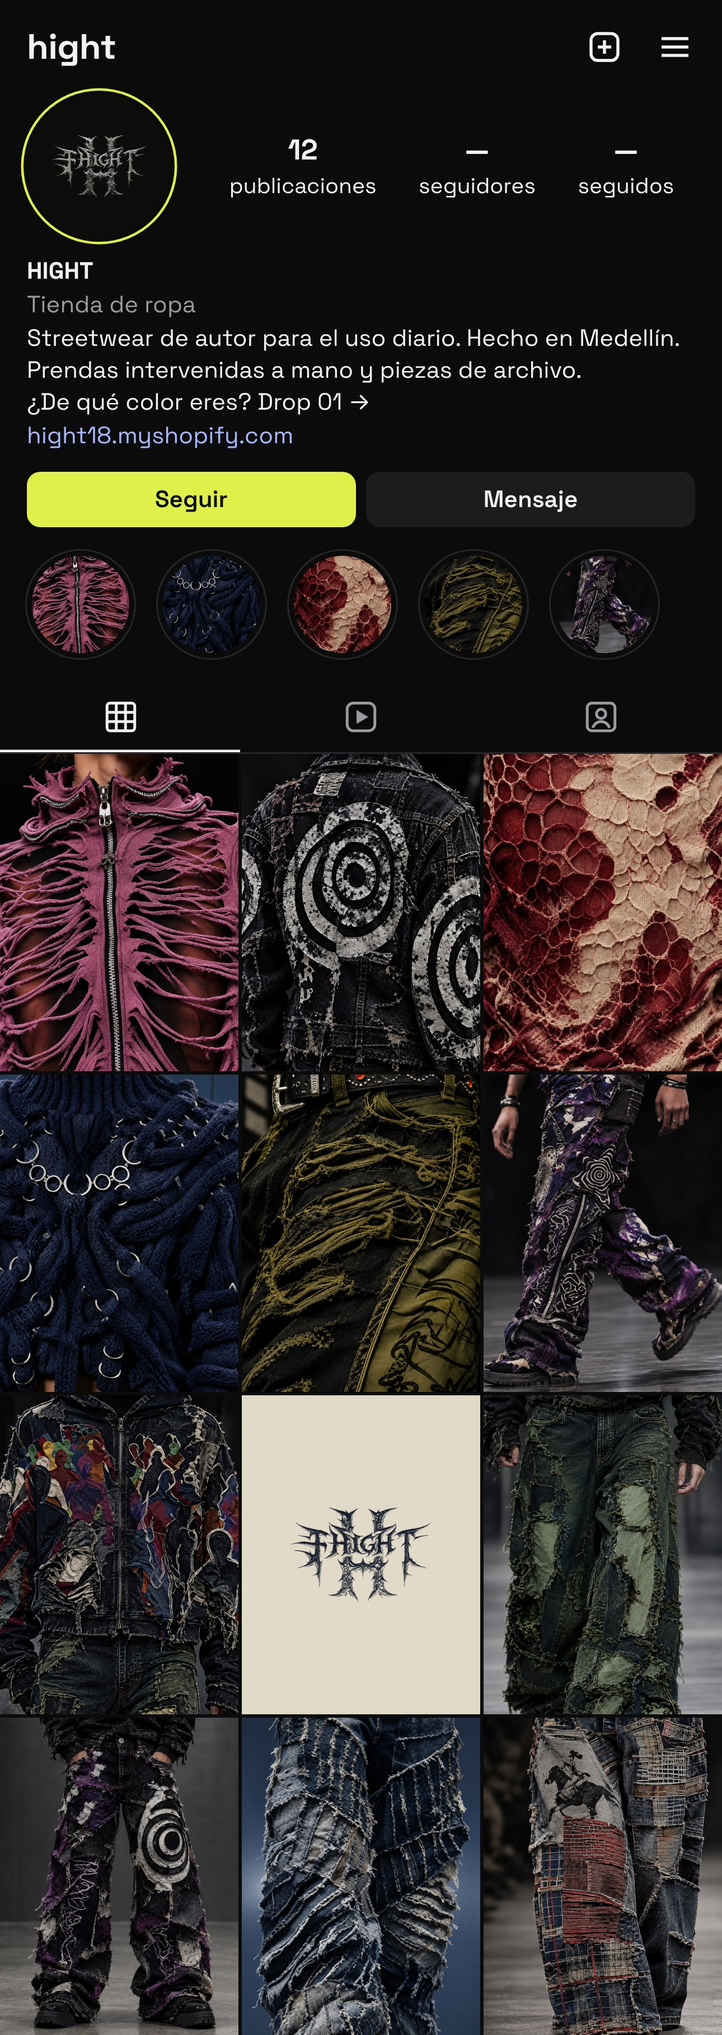
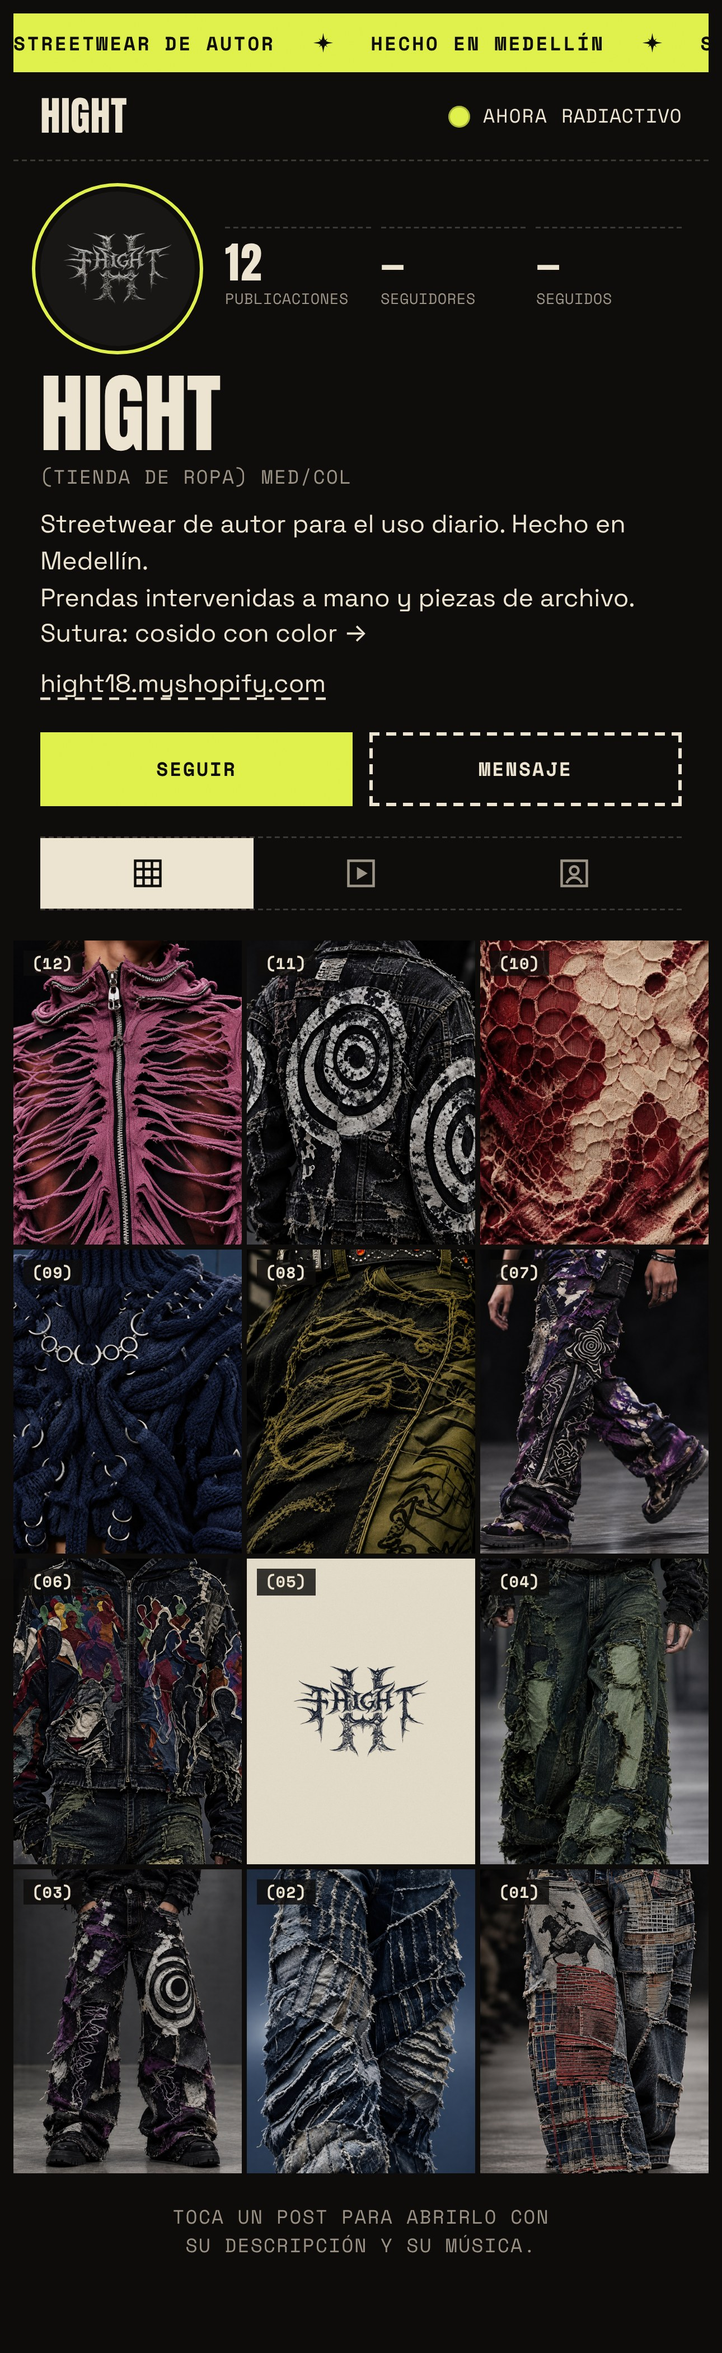
Primeros planos: la colección se llama Sutura
La bio, los hashtags (#Sutura), el post del logo y la franja dicen Sutura y
«Cosido con color» en vez de Drop 01 y «¿De qué color eres?».

Claude-Session: https://claude.ai/code/session_01G48NiERhNFFkxz4Zg6J7Mb

diff --git a/bocetos/primeros-planos/muestra.html b/bocetos/primeros-planos/muestra.html
@@ -1,4 +1,4 @@
-<title>Primeros planos del Drop 01</title>
+<title>Primeros planos de Sutura</title>
 <meta name="claude:viewport-fit-sides" content="cover">
 <link rel="preconnect" href="https://fonts.googleapis.com">
 <link rel="preconnect" href="https://fonts.gstatic.com" crossorigin>
@@ -138,8 +138,8 @@ body::after {
 
 <div class="franja" aria-hidden="true">
   <div class="franja-pista">
-    <ul><li>Streetwear de autor</li><li><svg><use href="#estrella"/></svg></li><li>Hecho en Medellín</li><li><svg><use href="#estrella"/></svg></li><li>Drop 01</li><li><svg><use href="#estrella"/></svg></li><li data-franja-turno>Ahora: Radiactivo</li><li><svg><use href="#estrella"/></svg></li><li>¿De qué color eres?</li><li><svg><use href="#estrella"/></svg></li></ul>
-    <ul><li>Streetwear de autor</li><li><svg><use href="#estrella"/></svg></li><li>Hecho en Medellín</li><li><svg><use href="#estrella"/></svg></li><li>Drop 01</li><li><svg><use href="#estrella"/></svg></li><li data-franja-turno>Ahora: Radiactivo</li><li><svg><use href="#estrella"/></svg></li><li>¿De qué color eres?</li><li><svg><use href="#estrella"/></svg></li></ul>
+    <ul><li>Streetwear de autor</li><li><svg><use href="#estrella"/></svg></li><li>Hecho en Medellín</li><li><svg><use href="#estrella"/></svg></li><li>Sutura</li><li><svg><use href="#estrella"/></svg></li><li data-franja-turno>Ahora: Radiactivo</li><li><svg><use href="#estrella"/></svg></li><li>Cosido con color</li><li><svg><use href="#estrella"/></svg></li></ul>
+    <ul><li>Streetwear de autor</li><li><svg><use href="#estrella"/></svg></li><li>Hecho en Medellín</li><li><svg><use href="#estrella"/></svg></li><li>Sutura</li><li><svg><use href="#estrella"/></svg></li><li data-franja-turno>Ahora: Radiactivo</li><li><svg><use href="#estrella"/></svg></li><li>Cosido con color</li><li><svg><use href="#estrella"/></svg></li></ul>
   </div>
 </div>
 
@@ -156,7 +156,7 @@ body::after {
   <div class="bio">
     <h1 class="nombre">Hight</h1>
     <span class="t-label" style="color:var(--gris)">(Tienda de ropa) MED/COL</span>
-    <p>Streetwear de autor para el uso diario. Hecho en Medellín.<br>Prendas intervenidas a mano y piezas de archivo.<br>¿De qué color eres? Drop 01 →</p>
+    <p>Streetwear de autor para el uso diario. Hecho en Medellín.<br>Prendas intervenidas a mano y piezas de archivo.<br>Sutura: cosido con color →</p>
     <a href="https://hight18.myshopify.com" target="_blank" rel="noopener">hight18.myshopify.com</a>
   </div>
   <div class="botones" aria-hidden="true"><span class="btn btn-acento">Seguir</span><span class="btn btn-punteado">Mensaje</span></div>
@@ -236,7 +236,7 @@ body::after {
 })();
 </script>
 <script>
-const POSTS = [{"n": 1, "src": "fotos/jean-patchwork-cuadros.jpg", "alt": "Jean Patchwork Cuadros de cerca: parches de franela, ladrillo y denim con el borde crudo", "pista": "rock-psicodelico", "pistaNombre": "Rock psicodélico", "desde": 4.286, "dura": 12.857, "lineas": ["Jean Patchwork Cuadros: franela a cuadros, ladrillo y denim lavado, cosidos con el borde crudo.", "Cada parche viene de otra prenda; juntos cuentan otra historia.", "$540.000, en el enlace de la bio.", "Fotos creadas con IA a partir de las prendas reales."], "hashtags": "#HIGHT #Drop01 #DenimIntervenido", "etiquetas": "Jean Patchwork Cuadros", "fecha": "Primeros planos · 01 de 12"}, {"n": 2, "src": "fotos/jean-wide-fleco-indigo.jpg", "alt": "Jean Wide Fleco Índigo de cerca: franjas de índigo deshilachadas, cosidas en diagonal", "pista": "neo-psicodelia", "pistaNombre": "Neo-psicodelia", "desde": 0.0, "dura": 12.245, "lineas": ["Jean Wide Fleco Índigo: franjas de índigo cosidas en diagonal, con el borde deshilachado a mano.", "Se mueve antes que tú.", "$620.000. Guarda este post."], "hashtags": "#HIGHT #Drop01 #DenimIntervenido", "etiquetas": "Jean Wide Fleco Índigo", "fecha": "Primeros planos · 02 de 12"}, {"n": 3, "src": "fotos/jean-patchwork-estrellas-violeta-frente.jpg", "alt": "Jean Patchwork Estrellas Violeta de frente: parches violeta y negros con una diana pintada en blanco", "pista": "pop-psicodelico", "pistaNombre": "Pop psicodélico", "desde": 4.615, "dura": 11.538, "lineas": ["Jean Patchwork Estrellas Violeta: parches violeta y negros, costura cruda y una diana pintada a mano.", "Ningún parche está donde debería. Ese es el punto.", "$650.000, en el enlace de la bio."], "hashtags": "#HIGHT #Drop01", "etiquetas": "Jean Patchwork Estrellas Violeta", "fecha": "Primeros planos · 03 de 12"}, {"n": 4, "src": "fotos/jean-flare-destroyed-verde.jpg", "alt": "Jean Flare Destroyed Verde de cerca: rotos grandes rellenos de tela verde clara", "pista": "rock-psicodelico", "pistaNombre": "Rock psicodélico", "desde": 12.857, "dura": 12.857, "lineas": ["Jean Flare Destroyed Verde: rotos grandes rellenos de tela verde clara, cosidos en zigzag.", "Lo gastado también se elige.", "$480.000. Etiqueta a quien lo llevaría."], "hashtags": "#HIGHT #Drop01 #DenimIntervenido", "etiquetas": "Jean Flare Destroyed Verde", "fecha": "Primeros planos · 04 de 12"}, {"n": 5, "src": "fotos/logo-hueso.jpg", "alt": "El logo de HIGHT en tinta sobre hueso", "pista": "neo-psicodelia", "pistaNombre": "Neo-psicodelia", "desde": 9.796, "dura": 12.245, "lineas": ["HIGHT. Drop 01.", "Streetwear de autor, hecho en Medellín.", "Activa las notificaciones del perfil."], "hashtags": "#HIGHT #Drop01 #Medellín", "etiquetas": "ninguno", "fecha": "Primeros planos · 05 de 12"}, {"n": 6, "src": "fotos/buzo-multitud-termica.jpg", "alt": "Buzo Multitud Térmica de cerca: siluetas de colores sobre denim negro deshilachado", "pista": "pop-psicodelico", "pistaNombre": "Pop psicodélico", "desde": 13.846, "dura": 11.538, "lineas": ["Buzo Multitud Térmica: una multitud en colores de cámara térmica sobre denim negro lavado.", "Entre la multitud, nadie se parece.", "$390.000, en el enlace de la bio."], "hashtags": "#HIGHT #Drop01", "etiquetas": "Buzo Multitud Térmica", "fecha": "Primeros planos · 06 de 12"}, {"n": 7, "src": "fotos/jean-patchwork-estrellas-violeta-estrella.jpg", "alt": "Jean Patchwork Estrellas Violeta caminando: la estrella en espiral sobre violeta salpicado", "pista": "rock-psicodelico", "pistaNombre": "Rock psicodélico", "desde": 21.429, "dura": 12.857, "lineas": ["Jean Patchwork Estrellas Violeta: la estrella en espiral, de cerca, sobre violeta salpicado de cloro.", "Camina y el estampado camina contigo.", "¿Violeta o negro? Te leemos."], "hashtags": "#HIGHT #Drop01 #DenimIntervenido", "etiquetas": "Jean Patchwork Estrellas Violeta", "fecha": "Primeros planos · 07 de 12"}, {"n": 8, "src": "fotos/jean-flare-dragon-acido.jpg", "alt": "Jean Flare Dragón Ácido de cerca: hilos oliva sobre negro y el dragón en tinta", "pista": "pop-psicodelico", "pistaNombre": "Pop psicodélico", "desde": 9.231, "dura": 11.538, "lineas": ["Jean Flare Dragón Ácido: hilos oliva sueltos sobre negro y un dragón en tinta en la pierna.", "Lo que se deshace también tiene forma.", "$490.000, en el enlace de la bio."], "hashtags": "#HIGHT #Drop01", "etiquetas": "Jean Flare Dragón Ácido", "fecha": "Primeros planos · 08 de 12"}, {"n": 9, "src": "fotos/tejido-anillos-indigo.jpg", "alt": "Tejido Anillos Índigo de cerca: tiras tejidas en azul noche unidas con argollas metálicas", "pista": "neo-psicodelia", "pistaNombre": "Neo-psicodelia", "desde": 14.694, "dura": 12.245, "lineas": ["Tejido Anillos Índigo: tiras tubulares tejidas en azul noche, unidas con argollas metálicas.", "Un suéter que no se parece a otro.", "$460.000. Mira las argollas en la ficha de la tienda."], "hashtags": "#HIGHT #Drop01 #HechoAMano", "etiquetas": "Tejido Anillos Índigo", "fecha": "Primeros planos · 09 de 12"}, {"n": 10, "src": "fotos/camiseta-celula-carmin.jpg", "alt": "Camiseta Célula Carmín de cerca: estampado de células en carmín y hueso", "pista": "neo-psicodelia", "pistaNombre": "Neo-psicodelia", "desde": 19.592, "dura": 12.245, "lineas": ["Camiseta Célula Carmín: estampado de pintura fluida en carmín y hueso, sobre la tela calada.", "De lejos, una mancha. De cerca, células.", "$169.000, en el enlace de la bio."], "hashtags": "#HIGHT #Drop01", "etiquetas": "Camiseta Célula Carmín", "fecha": "Primeros planos · 10 de 12"}, {"n": 11, "src": "fotos/chaqueta-trouble-maker.jpg", "alt": "Chaqueta Trouble Maker de espalda: espirales pintadas en blanco sobre denim negro", "pista": "rock-psicodelico", "pistaNombre": "Rock psicodélico", "desde": 8.571, "dura": 12.857, "lineas": ["Chaqueta Trouble Maker: denim negro de archivo, espirales pintadas a mano en blanco y parches deshilachados.", "La espalda también habla.", "$580.000. Etiqueta a quien la llevaría."], "hashtags": "#HIGHT #Drop01 #DenimIntervenido", "etiquetas": "Chaqueta Trouble Maker", "fecha": "Primeros planos · 11 de 12"}, {"n": 12, "src": "fotos/chaqueta-blood-rose.jpg", "alt": "Chaqueta Blood Rose de cerca: la capa lavanda calada y la cremallera metálica", "pista": "neo-psicodelia", "pistaNombre": "Neo-psicodelia", "desde": 7.347, "dura": 12.245, "lineas": ["Chaqueta Blood Rose: capa lavanda calada a mano y una cremallera metálica que sube hasta el cuello.", "Elegante no es lo mismo que obediente.", "$500.000, en el enlace de la bio."], "hashtags": "#HIGHT #Drop01 #HechoAMano", "etiquetas": "Chaqueta Blood Rose", "fecha": "Primeros planos · 12 de 12"}];
+const POSTS = [{"n": 1, "src": "fotos/jean-patchwork-cuadros.jpg", "alt": "Jean Patchwork Cuadros de cerca: parches de franela, ladrillo y denim con el borde crudo", "pista": "rock-psicodelico", "pistaNombre": "Rock psicodélico", "desde": 4.286, "dura": 12.857, "lineas": ["Jean Patchwork Cuadros: franela a cuadros, ladrillo y denim lavado, cosidos con el borde crudo.", "Cada parche viene de otra prenda; juntos cuentan otra historia.", "$540.000, en el enlace de la bio.", "Fotos creadas con IA a partir de las prendas reales."], "hashtags": "#HIGHT #Sutura #DenimIntervenido", "etiquetas": "Jean Patchwork Cuadros", "fecha": "Primeros planos · 01 de 12"}, {"n": 2, "src": "fotos/jean-wide-fleco-indigo.jpg", "alt": "Jean Wide Fleco Índigo de cerca: franjas de índigo deshilachadas, cosidas en diagonal", "pista": "neo-psicodelia", "pistaNombre": "Neo-psicodelia", "desde": 0.0, "dura": 12.245, "lineas": ["Jean Wide Fleco Índigo: franjas de índigo cosidas en diagonal, con el borde deshilachado a mano.", "Se mueve antes que tú.", "$620.000. Guarda este post."], "hashtags": "#HIGHT #Sutura #DenimIntervenido", "etiquetas": "Jean Wide Fleco Índigo", "fecha": "Primeros planos · 02 de 12"}, {"n": 3, "src": "fotos/jean-patchwork-estrellas-violeta-frente.jpg", "alt": "Jean Patchwork Estrellas Violeta de frente: parches violeta y negros con una diana pintada en blanco", "pista": "pop-psicodelico", "pistaNombre": "Pop psicodélico", "desde": 4.615, "dura": 11.538, "lineas": ["Jean Patchwork Estrellas Violeta: parches violeta y negros, costura cruda y una diana pintada a mano.", "Ningún parche está donde debería. Ese es el punto.", "$650.000, en el enlace de la bio."], "hashtags": "#HIGHT #Sutura", "etiquetas": "Jean Patchwork Estrellas Violeta", "fecha": "Primeros planos · 03 de 12"}, {"n": 4, "src": "fotos/jean-flare-destroyed-verde.jpg", "alt": "Jean Flare Destroyed Verde de cerca: rotos grandes rellenos de tela verde clara", "pista": "rock-psicodelico", "pistaNombre": "Rock psicodélico", "desde": 12.857, "dura": 12.857, "lineas": ["Jean Flare Destroyed Verde: rotos grandes rellenos de tela verde clara, cosidos en zigzag.", "Lo gastado también se elige.", "$480.000. Etiqueta a quien lo llevaría."], "hashtags": "#HIGHT #Sutura #DenimIntervenido", "etiquetas": "Jean Flare Destroyed Verde", "fecha": "Primeros planos · 04 de 12"}, {"n": 5, "src": "fotos/logo-hueso.jpg", "alt": "El logo de HIGHT en tinta sobre hueso", "pista": "neo-psicodelia", "pistaNombre": "Neo-psicodelia", "desde": 9.796, "dura": 12.245, "lineas": ["HIGHT. Sutura.", "Cosido con color, hecho en Medellín.", "Activa las notificaciones del perfil."], "hashtags": "#HIGHT #Sutura #Medellín", "etiquetas": "ninguno", "fecha": "Primeros planos · 05 de 12"}, {"n": 6, "src": "fotos/buzo-multitud-termica.jpg", "alt": "Buzo Multitud Térmica de cerca: siluetas de colores sobre denim negro deshilachado", "pista": "pop-psicodelico", "pistaNombre": "Pop psicodélico", "desde": 13.846, "dura": 11.538, "lineas": ["Buzo Multitud Térmica: una multitud en colores de cámara térmica sobre denim negro lavado.", "Entre la multitud, nadie se parece.", "$390.000, en el enlace de la bio."], "hashtags": "#HIGHT #Sutura", "etiquetas": "Buzo Multitud Térmica", "fecha": "Primeros planos · 06 de 12"}, {"n": 7, "src": "fotos/jean-patchwork-estrellas-violeta-estrella.jpg", "alt": "Jean Patchwork Estrellas Violeta caminando: la estrella en espiral sobre violeta salpicado", "pista": "rock-psicodelico", "pistaNombre": "Rock psicodélico", "desde": 21.429, "dura": 12.857, "lineas": ["Jean Patchwork Estrellas Violeta: la estrella en espiral, de cerca, sobre violeta salpicado de cloro.", "Camina y el estampado camina contigo.", "¿Violeta o negro? Te leemos."], "hashtags": "#HIGHT #Sutura #DenimIntervenido", "etiquetas": "Jean Patchwork Estrellas Violeta", "fecha": "Primeros planos · 07 de 12"}, {"n": 8, "src": "fotos/jean-flare-dragon-acido.jpg", "alt": "Jean Flare Dragón Ácido de cerca: hilos oliva sobre negro y el dragón en tinta", "pista": "pop-psicodelico", "pistaNombre": "Pop psicodélico", "desde": 9.231, "dura": 11.538, "lineas": ["Jean Flare Dragón Ácido: hilos oliva sueltos sobre negro y un dragón en tinta en la pierna.", "Lo que se deshace también tiene forma.", "$490.000, en el enlace de la bio."], "hashtags": "#HIGHT #Sutura", "etiquetas": "Jean Flare Dragón Ácido", "fecha": "Primeros planos · 08 de 12"}, {"n": 9, "src": "fotos/tejido-anillos-indigo.jpg", "alt": "Tejido Anillos Índigo de cerca: tiras tejidas en azul noche unidas con argollas metálicas", "pista": "neo-psicodelia", "pistaNombre": "Neo-psicodelia", "desde": 14.694, "dura": 12.245, "lineas": ["Tejido Anillos Índigo: tiras tubulares tejidas en azul noche, unidas con argollas metálicas.", "Un suéter que no se parece a otro.", "$460.000. Mira las argollas en la ficha de la tienda."], "hashtags": "#HIGHT #Sutura #HechoAMano", "etiquetas": "Tejido Anillos Índigo", "fecha": "Primeros planos · 09 de 12"}, {"n": 10, "src": "fotos/camiseta-celula-carmin.jpg", "alt": "Camiseta Célula Carmín de cerca: estampado de células en carmín y hueso", "pista": "neo-psicodelia", "pistaNombre": "Neo-psicodelia", "desde": 19.592, "dura": 12.245, "lineas": ["Camiseta Célula Carmín: estampado de pintura fluida en carmín y hueso, sobre la tela calada.", "De lejos, una mancha. De cerca, células.", "$169.000, en el enlace de la bio."], "hashtags": "#HIGHT #Sutura", "etiquetas": "Camiseta Célula Carmín", "fecha": "Primeros planos · 10 de 12"}, {"n": 11, "src": "fotos/chaqueta-trouble-maker.jpg", "alt": "Chaqueta Trouble Maker de espalda: espirales pintadas en blanco sobre denim negro", "pista": "rock-psicodelico", "pistaNombre": "Rock psicodélico", "desde": 8.571, "dura": 12.857, "lineas": ["Chaqueta Trouble Maker: denim negro de archivo, espirales pintadas a mano en blanco y parches deshilachados.", "La espalda también habla.", "$580.000. Etiqueta a quien la llevaría."], "hashtags": "#HIGHT #Sutura #DenimIntervenido", "etiquetas": "Chaqueta Trouble Maker", "fecha": "Primeros planos · 11 de 12"}, {"n": 12, "src": "fotos/chaqueta-blood-rose.jpg", "alt": "Chaqueta Blood Rose de cerca: la capa lavanda calada y la cremallera metálica", "pista": "neo-psicodelia", "pistaNombre": "Neo-psicodelia", "desde": 7.347, "dura": 12.245, "lineas": ["Chaqueta Blood Rose: capa lavanda calada a mano y una cremallera metálica que sube hasta el cuello.", "Elegante no es lo mismo que obediente.", "$500.000, en el enlace de la bio."], "hashtags": "#HIGHT #Sutura #HechoAMano", "etiquetas": "Chaqueta Blood Rose", "fecha": "Primeros planos · 12 de 12"}];
 const PISTAS = {"neo-psicodelia": "musica/neo-psicodelia.mp3", "rock-psicodelico": "musica/rock-psicodelico.mp3", "pop-psicodelico": "musica/pop-psicodelico.mp3"};
 const $ = (id) => document.getElementById(id);
 const audio = $('audio');

diff --git a/bocetos/primeros-planos/muestra-plantilla.html b/bocetos/primeros-planos/muestra-plantilla.html
@@ -1,4 +1,4 @@
-<title>Primeros planos del Drop 01</title>
+<title>Primeros planos de Sutura</title>
 <meta name="claude:viewport-fit-sides" content="cover">
 <link rel="preconnect" href="https://fonts.googleapis.com">
 <link rel="preconnect" href="https://fonts.gstatic.com" crossorigin>
@@ -138,8 +138,8 @@ body::after {
 
 <div class="franja" aria-hidden="true">
   <div class="franja-pista">
-    <ul><li>Streetwear de autor</li><li><svg><use href="#estrella"/></svg></li><li>Hecho en Medellín</li><li><svg><use href="#estrella"/></svg></li><li>Drop 01</li><li><svg><use href="#estrella"/></svg></li><li data-franja-turno>Ahora: Radiactivo</li><li><svg><use href="#estrella"/></svg></li><li>¿De qué color eres?</li><li><svg><use href="#estrella"/></svg></li></ul>
-    <ul><li>Streetwear de autor</li><li><svg><use href="#estrella"/></svg></li><li>Hecho en Medellín</li><li><svg><use href="#estrella"/></svg></li><li>Drop 01</li><li><svg><use href="#estrella"/></svg></li><li data-franja-turno>Ahora: Radiactivo</li><li><svg><use href="#estrella"/></svg></li><li>¿De qué color eres?</li><li><svg><use href="#estrella"/></svg></li></ul>
+    <ul><li>Streetwear de autor</li><li><svg><use href="#estrella"/></svg></li><li>Hecho en Medellín</li><li><svg><use href="#estrella"/></svg></li><li>Sutura</li><li><svg><use href="#estrella"/></svg></li><li data-franja-turno>Ahora: Radiactivo</li><li><svg><use href="#estrella"/></svg></li><li>Cosido con color</li><li><svg><use href="#estrella"/></svg></li></ul>
+    <ul><li>Streetwear de autor</li><li><svg><use href="#estrella"/></svg></li><li>Hecho en Medellín</li><li><svg><use href="#estrella"/></svg></li><li>Sutura</li><li><svg><use href="#estrella"/></svg></li><li data-franja-turno>Ahora: Radiactivo</li><li><svg><use href="#estrella"/></svg></li><li>Cosido con color</li><li><svg><use href="#estrella"/></svg></li></ul>
   </div>
 </div>
 

diff --git a/bocetos/primeros-planos/muestra.py b/bocetos/primeros-planos/muestra.py
@@ -17,7 +17,7 @@ DESFILE = AQUI.parent / 'desfile'
 PISTAS = {'neo-psicodelia': (98, 5, 'Neo-psicodelia'), 'rock-psicodelico': (112, 6, 'Rock psicodélico'),
           'pop-psicodelico': (104, 5, 'Pop psicodélico')}
 BIO = ['Streetwear de autor para el uso diario. Hecho en Medellín.', 'Prendas intervenidas a mano y piezas de archivo.',
-       '¿De qué color eres? Drop 01 →']
+       'Sutura: cosido con color →']
 
 # en el orden en que se publican: el 01 queda abajo a la derecha y el 12 arriba a la izquierda
 POSTS = [
@@ -26,61 +26,61 @@ POSTS = [
      ['Jean Patchwork Cuadros: franela a cuadros, ladrillo y denim lavado, cosidos con el borde crudo.',
       'Cada parche viene de otra prenda; juntos cuentan otra historia.',
       '$540.000, en el enlace de la bio.', 'Fotos creadas con IA a partir de las prendas reales.'],
-     '#HIGHT #Drop01 #DenimIntervenido'),
+     '#HIGHT #Sutura #DenimIntervenido'),
     ('jean-wide-fleco-indigo', 'Jean Wide Fleco Índigo', ('neo-psicodelia', 0),
      'Jean Wide Fleco Índigo de cerca: franjas de índigo deshilachadas, cosidas en diagonal',
      ['Jean Wide Fleco Índigo: franjas de índigo cosidas en diagonal, con el borde deshilachado a mano.',
       'Se mueve antes que tú.', '$620.000. Guarda este post.'],
-     '#HIGHT #Drop01 #DenimIntervenido'),
+     '#HIGHT #Sutura #DenimIntervenido'),
     ('jean-patchwork-estrellas-violeta-frente', 'Jean Patchwork Estrellas Violeta', ('pop-psicodelico', 2),
      'Jean Patchwork Estrellas Violeta de frente: parches violeta y negros con una diana pintada en blanco',
      ['Jean Patchwork Estrellas Violeta: parches violeta y negros, costura cruda y una diana pintada a mano.',
       'Ningún parche está donde debería. Ese es el punto.', '$650.000, en el enlace de la bio.'],
-     '#HIGHT #Drop01'),
+     '#HIGHT #Sutura'),
     ('jean-flare-destroyed-verde', 'Jean Flare Destroyed Verde', ('rock-psicodelico', 6),
      'Jean Flare Destroyed Verde de cerca: rotos grandes rellenos de tela verde clara',
      ['Jean Flare Destroyed Verde: rotos grandes rellenos de tela verde clara, cosidos en zigzag.',
       'Lo gastado también se elige.', '$480.000. Etiqueta a quien lo llevaría.'],
-     '#HIGHT #Drop01 #DenimIntervenido'),
+     '#HIGHT #Sutura #DenimIntervenido'),
     ('logo-hueso', 'ninguno', ('neo-psicodelia', 4),
      'El logo de HIGHT en tinta sobre hueso',
-     ['HIGHT. Drop 01.', 'Streetwear de autor, hecho en Medellín.', 'Activa las notificaciones del perfil.'],
-     '#HIGHT #Drop01 #Medellín'),
+     ['HIGHT. Sutura.', 'Cosido con color, hecho en Medellín.', 'Activa las notificaciones del perfil.'],
+     '#HIGHT #Sutura #Medellín'),
     ('buzo-multitud-termica', 'Buzo Multitud Térmica', ('pop-psicodelico', 6),
      'Buzo Multitud Térmica de cerca: siluetas de colores sobre denim negro deshilachado',
      ['Buzo Multitud Térmica: una multitud en colores de cámara térmica sobre denim negro lavado.',
       'Entre la multitud, nadie se parece.', '$390.000, en el enlace de la bio.'],
-     '#HIGHT #Drop01'),
+     '#HIGHT #Sutura'),
     ('jean-patchwork-estrellas-violeta-estrella', 'Jean Patchwork Estrellas Violeta', ('rock-psicodelico', 10),
      'Jean Patchwork Estrellas Violeta caminando: la estrella en espiral sobre violeta salpicado',
      ['Jean Patchwork Estrellas Violeta: la estrella en espiral, de cerca, sobre violeta salpicado de cloro.',
       'Camina y el estampado camina contigo.', '¿Violeta o negro? Te leemos.'],
-     '#HIGHT #Drop01 #DenimIntervenido'),
+     '#HIGHT #Sutura #DenimIntervenido'),
     ('jean-flare-dragon-acido', 'Jean Flare Dragón Ácido', ('pop-psicodelico', 4),
      'Jean Flare Dragón Ácido de cerca: hilos oliva sobre negro y el dragón en tinta',
      ['Jean Flare Dragón Ácido: hilos oliva sueltos sobre negro y un dragón en tinta en la pierna.',
       'Lo que se deshace también tiene forma.', '$490.000, en el enlace de la bio.'],
-     '#HIGHT #Drop01'),
+     '#HIGHT #Sutura'),
     ('tejido-anillos-indigo', 'Tejido Anillos Índigo', ('neo-psicodelia', 6),
      'Tejido Anillos Índigo de cerca: tiras tejidas en azul noche unidas con argollas metálicas',
      ['Tejido Anillos Índigo: tiras tubulares tejidas en azul noche, unidas con argollas metálicas.',
       'Un suéter que no se parece a otro.', '$460.000. Mira las argollas en la ficha de la tienda.'],
-     '#HIGHT #Drop01 #HechoAMano'),
+     '#HIGHT #Sutura #HechoAMano'),
     ('camiseta-celula-carmin', 'Camiseta Célula Carmín', ('neo-psicodelia', 8),
      'Camiseta Célula Carmín de cerca: estampado de células en carmín y hueso',
      ['Camiseta Célula Carmín: estampado de pintura fluida en carmín y hueso, sobre la tela calada.',
       'De lejos, una mancha. De cerca, células.', '$169.000, en el enlace de la bio.'],
-     '#HIGHT #Drop01'),
+     '#HIGHT #Sutura'),
     ('chaqueta-trouble-maker', 'Chaqueta Trouble Maker', ('rock-psicodelico', 4),
      'Chaqueta Trouble Maker de espalda: espirales pintadas en blanco sobre denim negro',
      ['Chaqueta Trouble Maker: denim negro de archivo, espirales pintadas a mano en blanco y parches deshilachados.',
       'La espalda también habla.', '$580.000. Etiqueta a quien la llevaría.'],
-     '#HIGHT #Drop01 #DenimIntervenido'),
+     '#HIGHT #Sutura #DenimIntervenido'),
     ('chaqueta-blood-rose', 'Chaqueta Blood Rose', ('neo-psicodelia', 3),
      'Chaqueta Blood Rose de cerca: la capa lavanda calada y la cremallera metálica',
      ['Chaqueta Blood Rose: capa lavanda calada a mano y una cremallera metálica que sube hasta el cuello.',
       'Elegante no es lo mismo que obediente.', '$500.000, en el enlace de la bio.'],
-     '#HIGHT #Drop01 #HechoAMano'),
+     '#HIGHT #Sutura #HechoAMano'),
 ]
 
 
